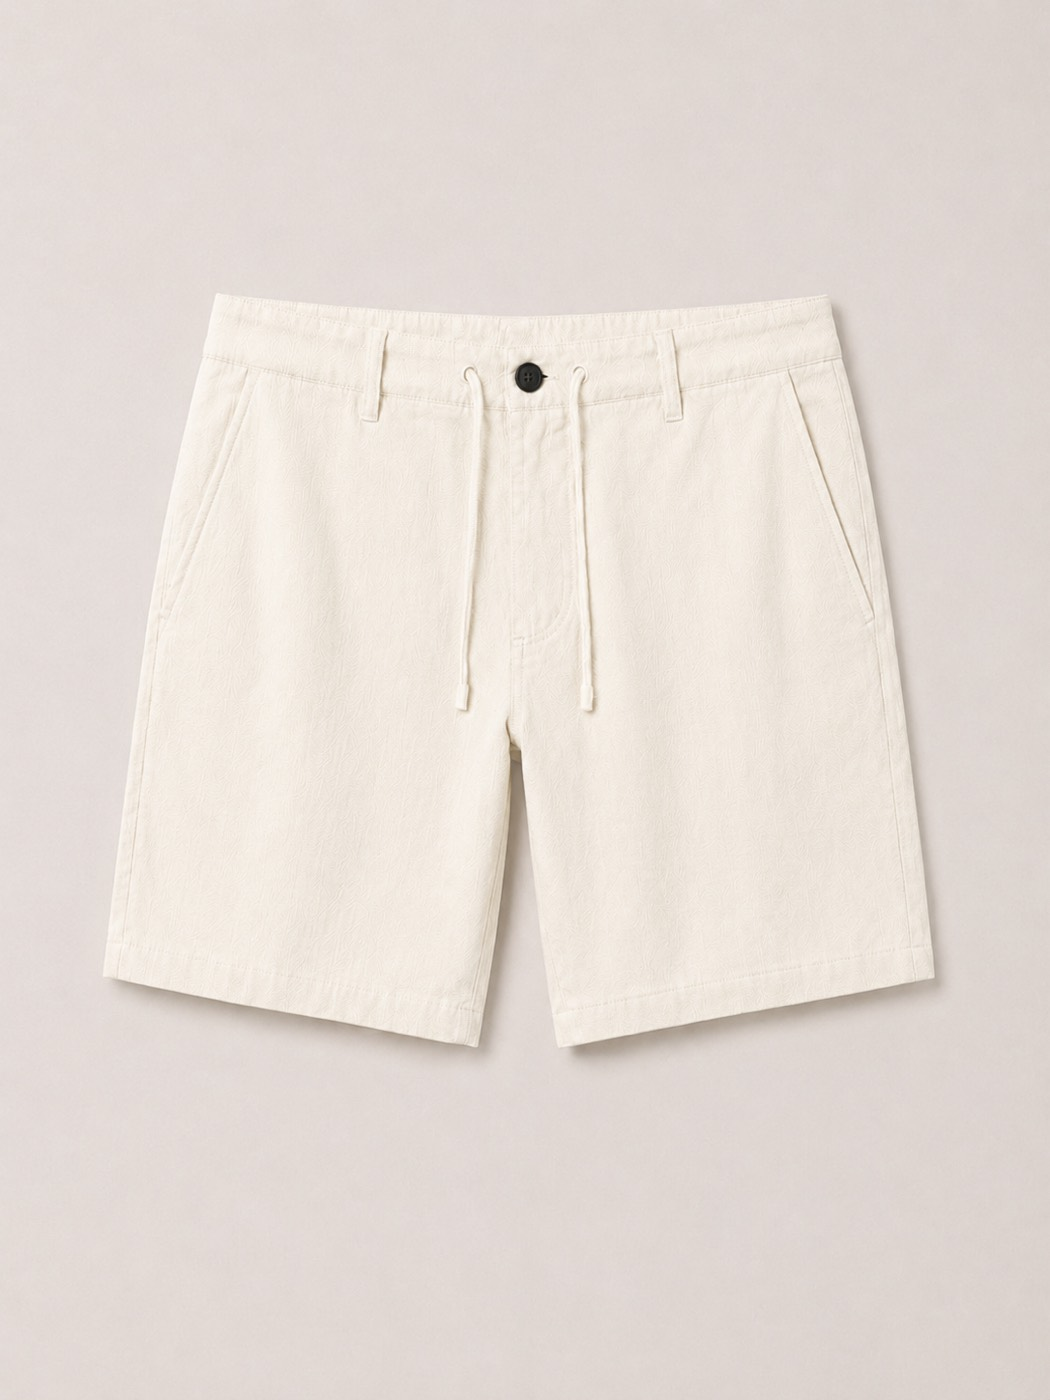
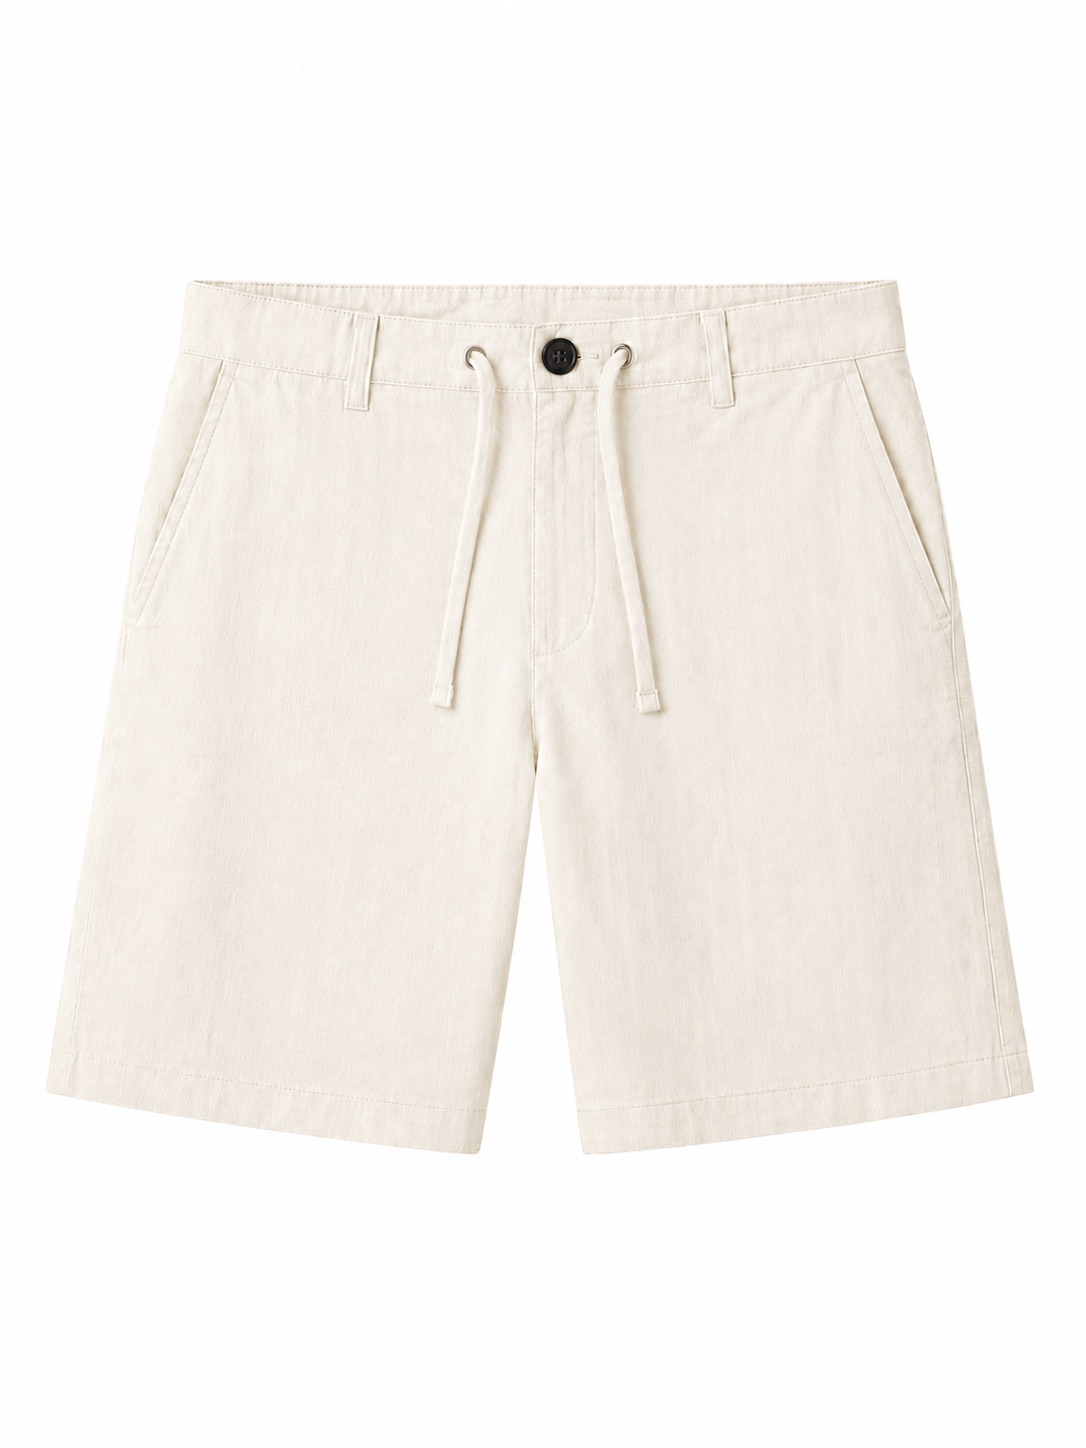
Actualizar fotos por color de Bermuda lino

diff --git a/script.js b/script.js
@@ -1399,7 +1399,7 @@ Object.entries(winterImageAdditionsByProductId).forEach(([productId, photoNumber
   ])].sort((a, b) => a - b);
 });
 
-const IMAGE_ASSET_VERSION = "20260814-48";
+const IMAGE_ASSET_VERSION = "20260820-49";
 
 const PRODUCTION_2027_IMAGE_SOURCE_BY_PRODUCT_ID = {
   118: 48,  // Merano

diff --git a/index.html b/index.html
@@ -212,6 +212,6 @@
     <p>BYE BYE — BYE BYE</p>
   </footer>
 
-  <script src="script.js?v=20260820-10"></script>
+  <script src="script.js?v=20260820-11"></script>
 </body>
 </html>
